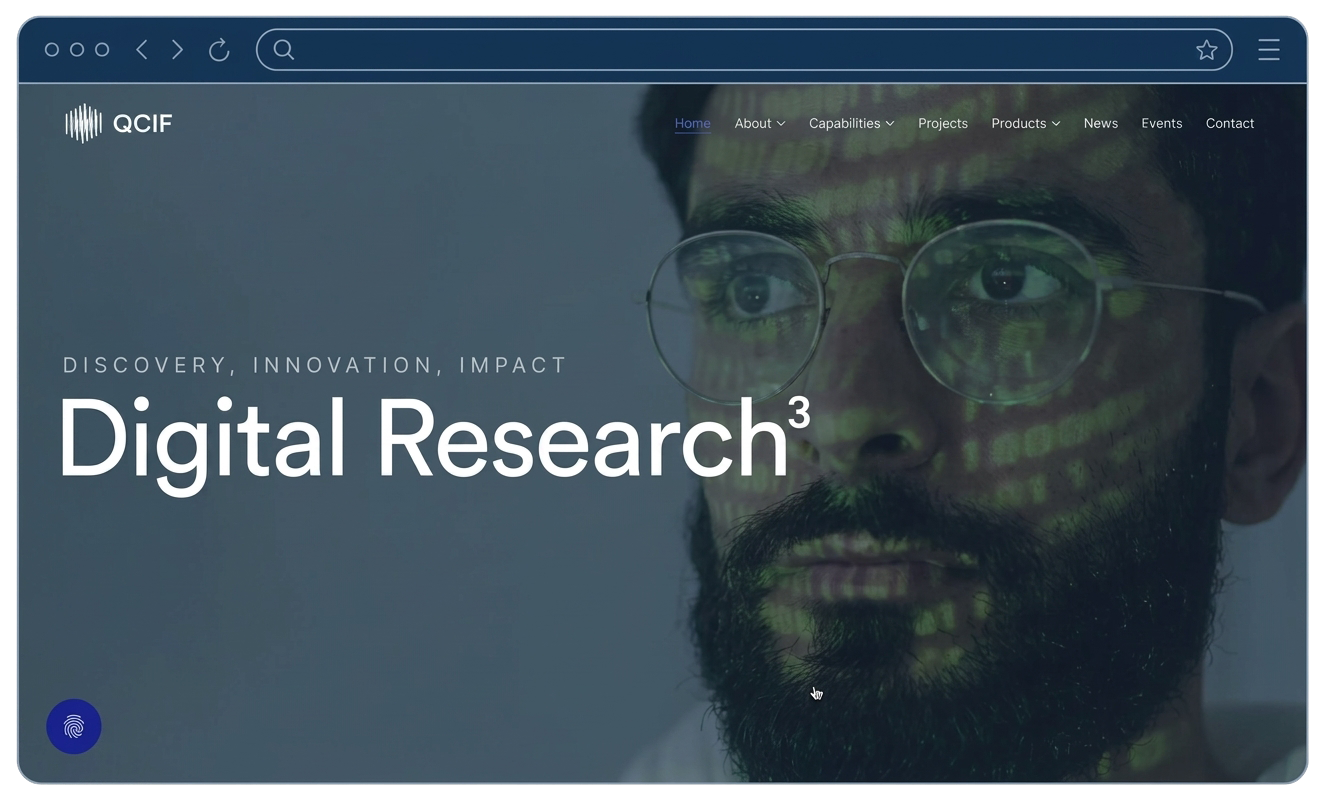
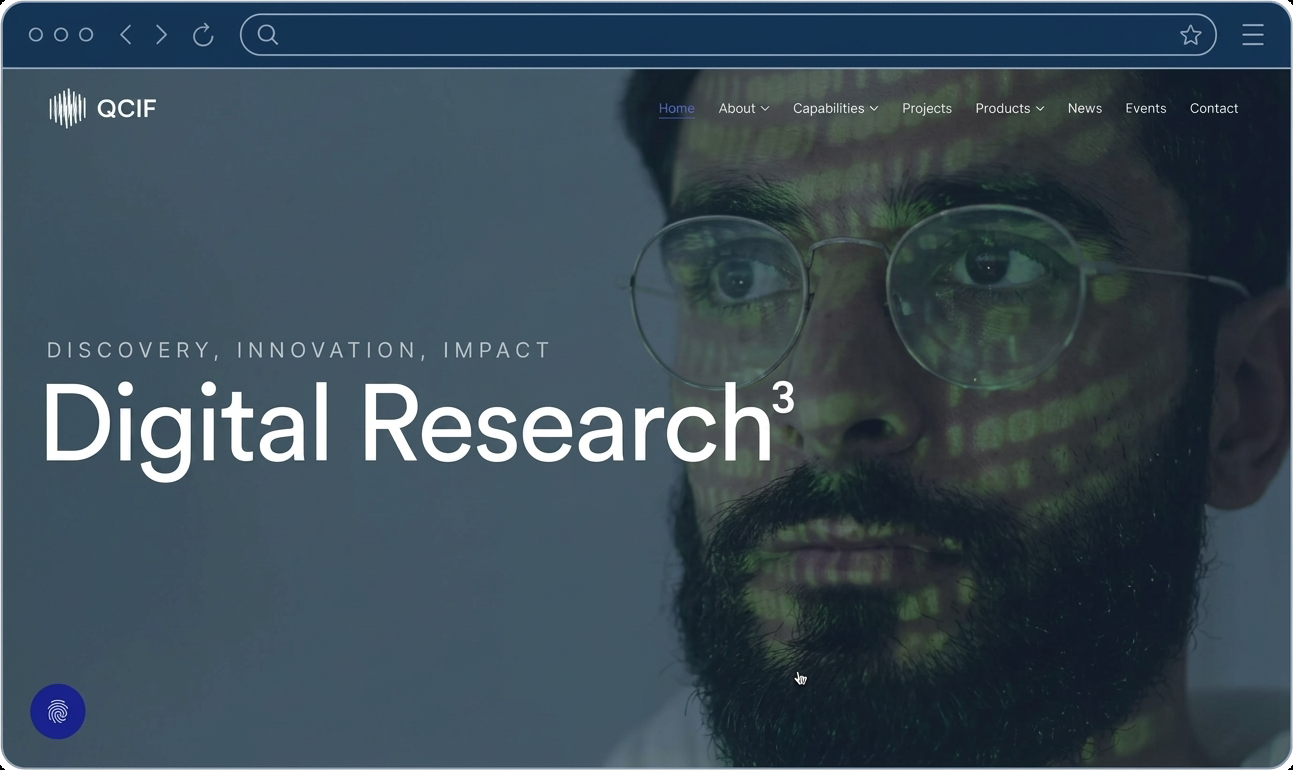
feat - img fixed

diff --git a/components/cases/projects.ts b/components/cases/projects.ts
@@ -78,13 +78,15 @@ export const CASE_PROJECTS: CaseProject[] = [
     description:
       "A brand, a sub-brand system and a website that let Queensland’s digital research partner restructure how it works.",
     // The delivered site itself. It is the only QCIF asset that is *about the work* rather
-    // than about the client's people, which is what a case-study card should show. Flattened
-    // to drop its alpha channel — a handful of corner pixels from the mockup's own rounded
-    // chrome were transparent, which under `object-cover` would show the frame's bg-ink/5
-    // through as a faint grey nick at each corner. 1325 x 800.
+    // than about the client's people, which is what a case-study card should show. The
+    // supplied export had a ~15px transparent margin baked in on every side (so `object-cover`
+    // showed the frame's bg-ink/5 through as a white-ish band) plus the mockup's own rounded
+    // corners — trimmed to the mockup's edges, then those corners flattened to this section's
+    // resting grey (ink/5 over --color-gray) instead of white so the last few px blend in
+    // rather than reading as a stray white nick. 1293 x 770.
     imageSrc: "/img/qcif-hero-2.png",
     // A capture: the frame takes its ratio so nothing is cropped and no mat shows.
-    aspect: 1325 / 800,
+    aspect: 1293 / 770,
     link: "/work/qcif",
     focus: "50% 50%",
   },
